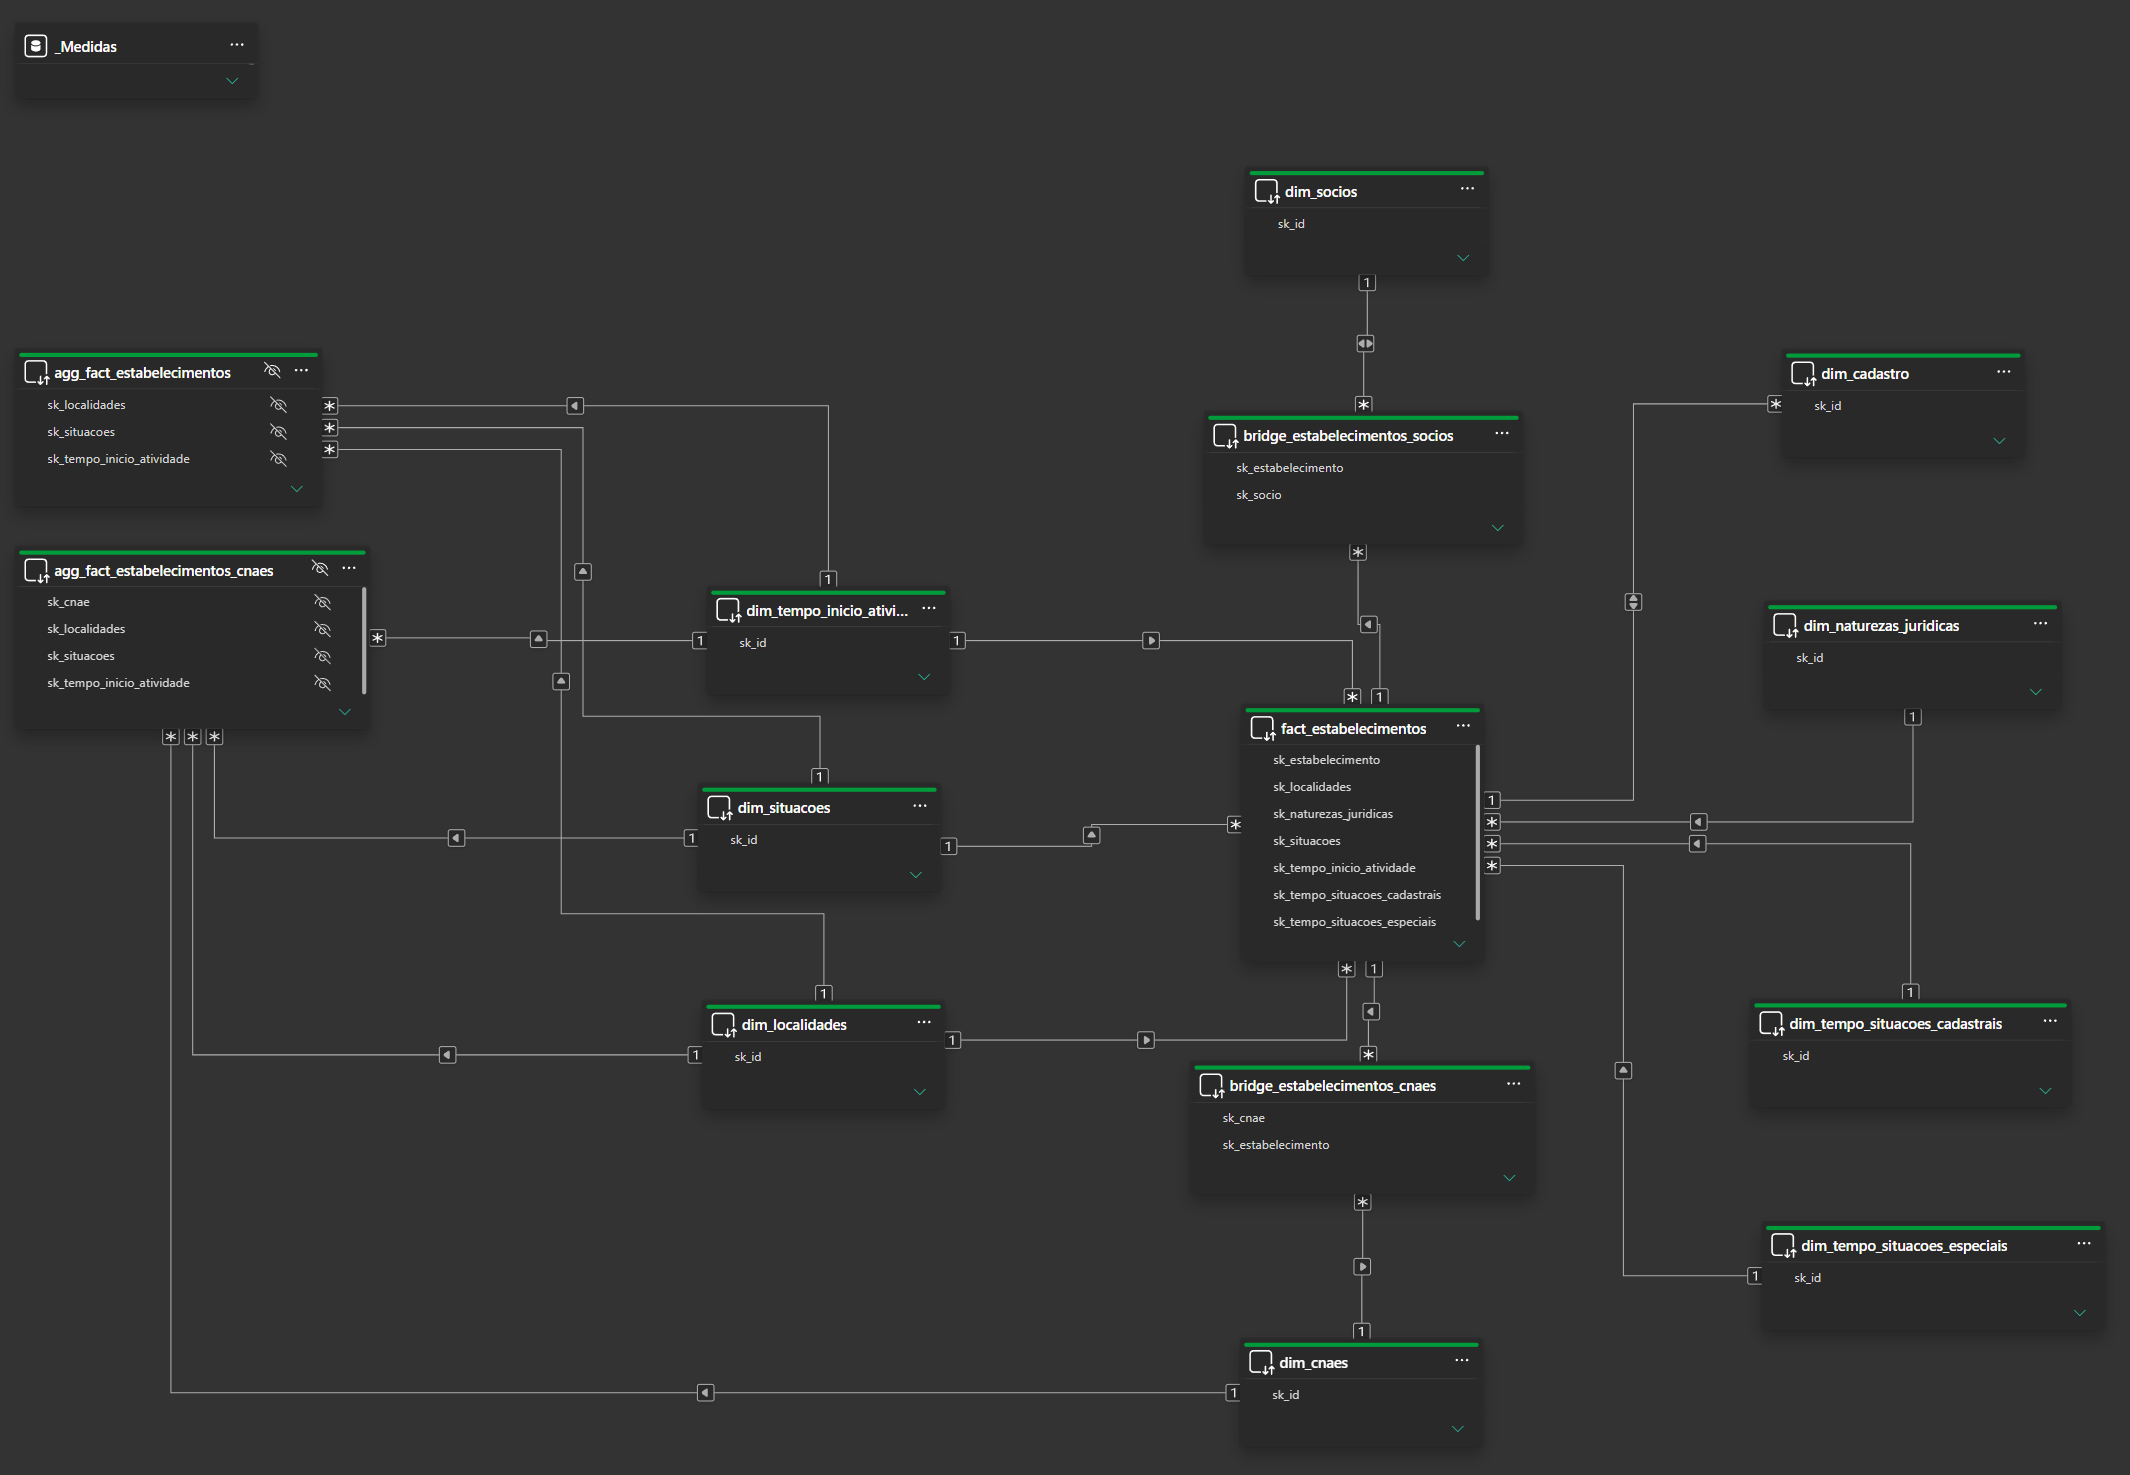
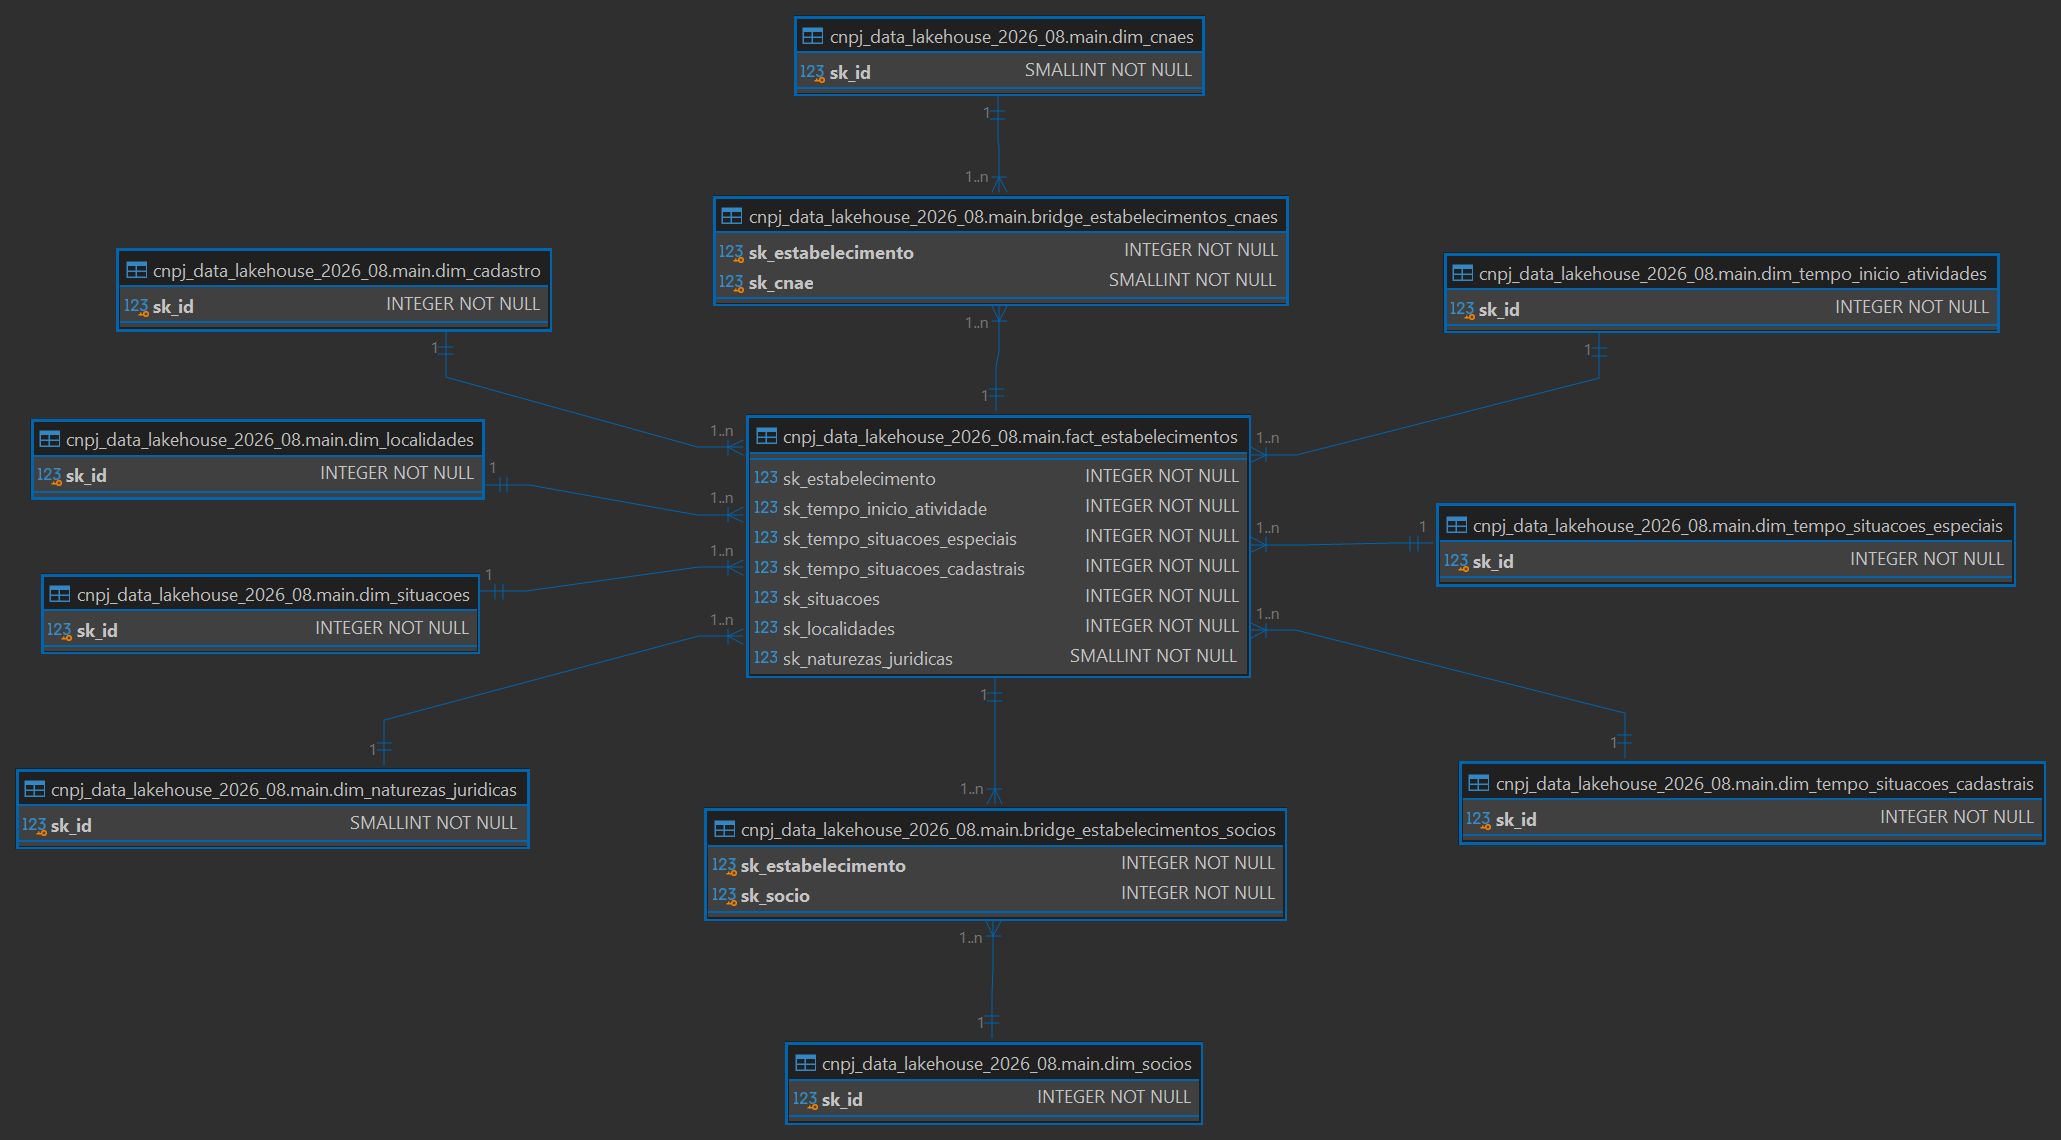
feat: Atualização da documentação.

diff --git a/README.md b/README.md
@@ -75,6 +75,10 @@ Obs.: Uma cópia de toda a estrutura do armazenamento local é gravada também n
 **Modelo Star Schema:**
 ![Modelo Star Schema](imagens/star_schema.png)
 
+**Modelo Star Schema no Power BI com Agregações e Medidas:**
+![Modelo Star Schema Power BI](imagens/power_bi_star_schema.jpg)
+
+
 ### 🗺 Diagrama da Arquitetura
 
 ![Pipeline de Dados - RFB](imagens/pipeline_rfb.gif)
